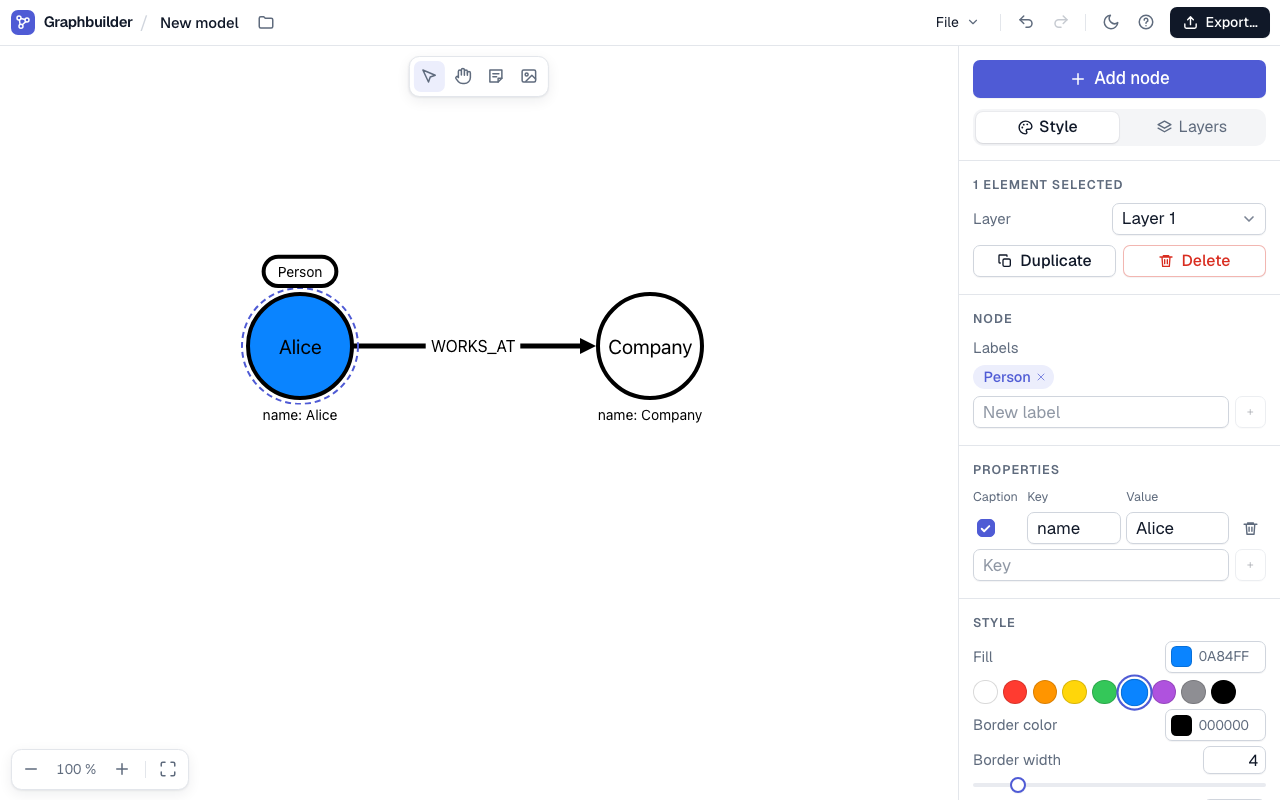
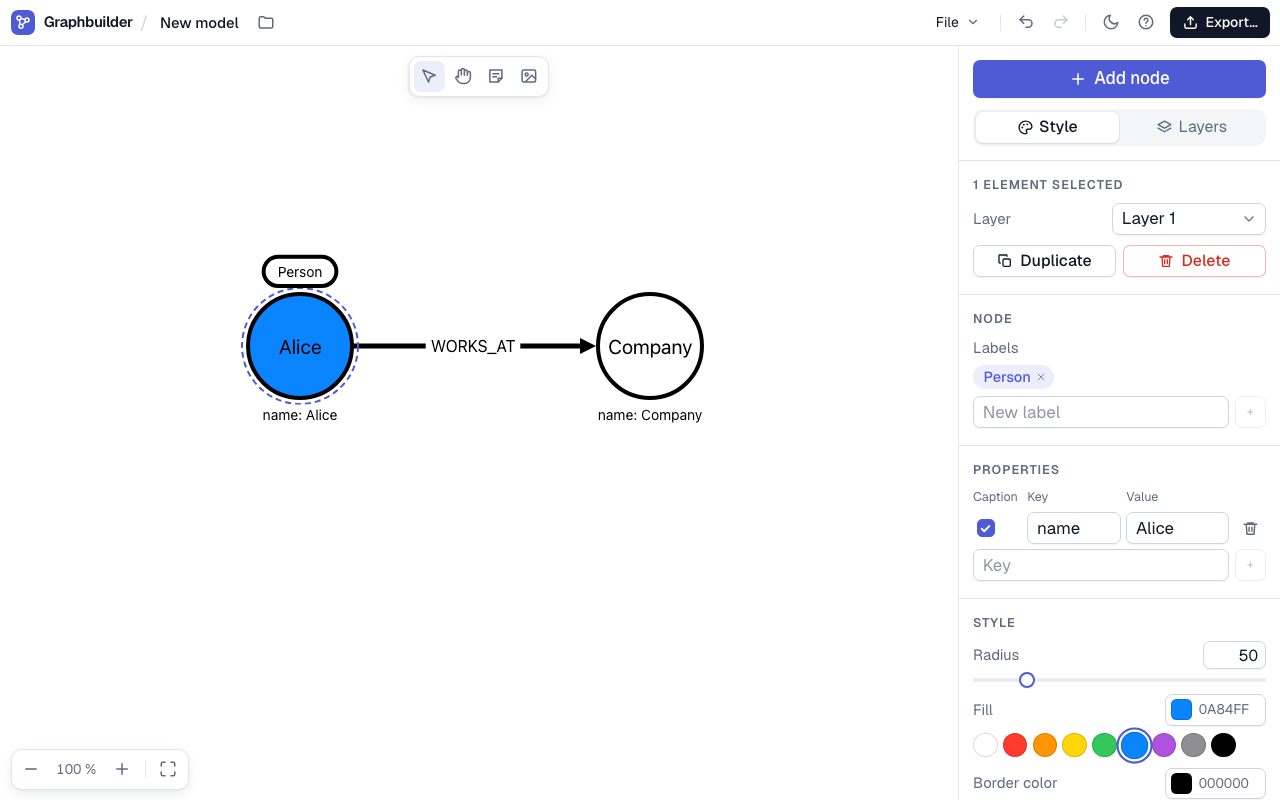
Colour swatches on every colour field, Radius first, and Show all / Hide all for layers

Changed region(s): [[0.75, 0.7812, 1.0, 1.0]]

diff --git a/tests/e2e/inspector.spec.ts b/tests/e2e/inspector.spec.ts
@@ -35,7 +35,7 @@ test.describe("egenskapspanel", () => {
     await expect(page.locator("svg text", { hasText: "ålder: 42" })).toBeVisible();
     await page.getByLabel("Use “name” as caption").check();
 
-    await page.getByTitle("#ff3b30").click();
+    await page.locator("[data-field='Fill']").getByTitle("#ff3b30").click();
     await expect(page.locator("[data-ref^='node:'] circle[fill='#ff3b30']")).toHaveCount(1);
     await page.getByRole("button", { name: "Reset to model style" }).click();
     await expect(page.locator("[data-ref^='node:'] circle[fill='#ffffff']")).toHaveCount(1);
@@ -74,7 +74,7 @@ test.describe("egenskapspanel", () => {
   }) => {
     await freshApp(page);
     await createNode(page, 250, 300, "A");
-    await page.getByTitle("#ff3b30").click();
+    await page.locator("[data-field='Fill']").getByTitle("#ff3b30").click();
     await createNode(page, 600, 300, "B");
     await page.getByRole("tab", { name: "Layers" }).click();
     await page.getByTestId("add-layer").click();
@@ -86,7 +86,7 @@ test.describe("egenskapspanel", () => {
     await page.keyboard.press("Escape");
     await page.getByRole("tab", { name: "Style" }).click();
     await expect(page.getByText("Nothing selected", { exact: true })).toBeVisible();
-    await page.getByTitle("#34c759").click();
+    await page.locator("[data-field='Fill']").getByTitle("#34c759").click();
     // Båda synliga noderna blir gröna, även A som hade en egen röd färg.
     await expect(page.locator("[data-ref^='node:'] > circle[fill='#34c759']")).toHaveCount(2);
     await expect(page.locator("[data-ref^='node:'] > circle[fill='#ff3b30']")).toHaveCount(0);
@@ -245,14 +245,14 @@ test.describe("egenskapspanel", () => {
     const caption = captionText(page, "Mörk");
     await expect(caption).toHaveAttribute("fill", "#000000");
     // Svart fyllning med svart rubrik syns inte: rubriken blir vit.
-    await page.getByTitle("#000000").click();
+    await page.locator("[data-field='Fill']").getByTitle("#000000").click();
     await expect(page.locator("[data-ref^='node:'] > circle[fill='#000000']")).toHaveCount(1);
     await expect(caption).toHaveAttribute("fill", "#ffffff");
     // Tillbaka till vit fyllning: rubriken blir svart igen.
-    await page.getByTitle("#ffffff").click();
+    await page.locator("[data-field='Fill']").getByTitle("#ffffff").click();
     await expect(caption).toHaveAttribute("fill", "#000000");
     // En klar färg går att läsa med svart text och ändrar inte rubriken.
-    await page.getByTitle("#ffd60a").click();
+    await page.locator("[data-field='Fill']").getByTitle("#ffd60a").click();
     await expect(caption).toHaveAttribute("fill", "#000000");
   });
 
@@ -380,5 +380,45 @@ test.describe("egenskapspanel", () => {
     const after = await label.boundingBox();
     if (!before || !after) throw new Error("label saknas");
     expect(before.y - after.y).toBeCloseTo(16, 0);
+  });
+
+  test("alla färgval har färgprickar, och Radius ligger överst", async ({ page }) => {
+    await freshApp(page);
+    await createNode(page, 250, 300, "A");
+    await page.getByPlaceholder("New label").fill("Person");
+    await page.getByPlaceholder("New label").press("Enter");
+    await createNode(page, 600, 300, "B");
+    await dragRelationship(page, { x: 250, y: 300 }, { x: 600, y: 300 }, "REL");
+    await page.keyboard.press("Escape");
+    const panel = page.locator("aside");
+    // Inget markerat: bakgrund, åtta nodfärger och fem relationsfärger – alla med nio prickar.
+    const colorFields = panel.locator("[data-field]:has(input[type='color'])");
+    await expect(colorFields).toHaveCount(14);
+    for (let i = 0; i < 14; i++) {
+      await expect(colorFields.nth(i).locator("button[title^='#']")).toHaveCount(9);
+    }
+    // Radius är första inställningen under Nodes, före Fill.
+    const nodeFields = panel
+      .locator("section", { has: page.getByRole("heading", { name: "Nodes" }) })
+      .locator("[data-field]");
+    await expect(nodeFields.first()).toHaveAttribute("data-field", "Radius");
+    await expect(nodeFields.nth(1)).toHaveAttribute("data-field", "Fill");
+
+    // Prickarna fungerar för varje färg, inte bara fyllningen.
+    await panel.locator("[data-field='Border color']").getByTitle("#ff3b30").click();
+    await expect(page.locator("[data-part='node-circle'][stroke='#ff3b30']")).toHaveCount(2);
+    await panel.locator("[data-field='Label background']").getByTitle("#ffd60a").click();
+    await expect(page.locator("[data-part='label-box'][fill='#ffd60a']")).toHaveCount(1);
+    await panel.locator("[data-field='Line color']").getByTitle("#0a84ff").click();
+    await expect(page.locator("[data-ref^='relationship:'] path[stroke='#0a84ff']")).toHaveCount(1);
+    await panel.locator("[data-field='Background color']").getByTitle("#8e8e93").click();
+    await expect(page.getByTestId("canvas-container")).toHaveCSS(
+      "background-color",
+      "rgb(142, 142, 147)",
+    );
+    // Den valda pricken är markerad.
+    await expect(panel.locator("[data-field='Border color']").getByTitle("#ff3b30")).toHaveClass(
+      /ring-accent/,
+    );
   });
 });

diff --git a/tests/e2e/layers.spec.ts b/tests/e2e/layers.spec.ts
@@ -145,6 +145,48 @@ test.describe("lager", () => {
     await expect(canvas.locator("text").filter({ hasText: "name: A" })).toHaveCount(0);
   });
 
+  test("Hide all och Show all döljer och visar alla lager på en gång", async ({ page }) => {
+    await freshApp(page);
+    await createNode(page, 250, 300, "A");
+    await page.getByRole("tab", { name: "Layers" }).click();
+    await page.getByTestId("add-layer").click();
+    await createNode(page, 600, 300, "B");
+    await page.getByTestId("add-layer").click();
+    const rows = page.getByTestId("layer-row");
+    const showAll = page.getByTestId("show-all-layers");
+    const hideAll = page.getByTestId("hide-all-layers");
+    await expect(rows).toHaveCount(3);
+    // Allt syns redan: Show all har inget att göra.
+    await expect(showAll).toBeDisabled();
+    await expect(hideAll).toBeEnabled();
+
+    await hideAll.click();
+    await expect(captionText(page, "A")).toHaveCount(0);
+    await expect(captionText(page, "B")).toHaveCount(0);
+    await expect(rows.getByRole("button", { name: "Show layer" })).toHaveCount(3);
+    await expect(hideAll).toBeDisabled();
+    // Lagret Properties är ett eget val och påverkas inte.
+    await expect(page.getByRole("button", { name: "Hide properties" })).toBeVisible();
+
+    // Visa ett lager för sig: båda knapparna går att använda.
+    await rows.nth(2).getByTestId("layer-visibility").click();
+    await expect(captionText(page, "A")).toHaveCount(1);
+    await expect(captionText(page, "B")).toHaveCount(0);
+    await expect(showAll).toBeEnabled();
+    await expect(hideAll).toBeEnabled();
+
+    await showAll.click();
+    await expect(captionText(page, "A")).toHaveCount(1);
+    await expect(captionText(page, "B")).toHaveCount(1);
+    await expect(rows.getByRole("button", { name: "Hide layer" })).toHaveCount(3);
+
+    // Hela ändringen är ett enda steg att ångra.
+    await hideAll.click();
+    await page.getByRole("button", { name: "Undo" }).click();
+    await expect(captionText(page, "A")).toHaveCount(1);
+    await expect(captionText(page, "B")).toHaveCount(1);
+  });
+
   test("låst lager kan inte markeras eller flyttas", async ({ page }) => {
     await freshApp(page);
     await createNode(page, 300, 300, "Fast");

diff --git a/src/panels/LayersPanel.tsx b/src/panels/LayersPanel.tsx
@@ -25,6 +25,7 @@ export function LayersPanel() {
   const doc = useDocumentStore((s) => s.doc);
   const addLayer = useDocumentStore((s) => s.addLayer);
   const moveLayer = useDocumentStore((s) => s.moveLayer);
+  const setAllLayersVisible = useDocumentStore((s) => s.setAllLayersVisible);
   const activeLayerId = useUiStore((s) => s.activeLayerId);
   const setActiveLayer = useUiStore((s) => s.setActiveLayer);
   const [dragId, setDragId] = useState<Id | null>(null);
@@ -49,6 +50,26 @@ export function LayersPanel() {
         <Button onClick={onAdd} data-testid="add-layer" className="h-8 px-2.5">
           <IconPlus size={16} />
           {t.layers.add}
+        </Button>
+      </div>
+      <div className="flex gap-1.5 px-4 pb-2">
+        <Button
+          className="h-8 flex-1 px-2.5 font-normal"
+          data-testid="show-all-layers"
+          disabled={doc.layers.every((l) => l.visible)}
+          onClick={() => setAllLayersVisible(true)}
+        >
+          <IconEye size={16} />
+          {t.layers.showAll}
+        </Button>
+        <Button
+          className="h-8 flex-1 px-2.5 font-normal"
+          data-testid="hide-all-layers"
+          disabled={doc.layers.every((l) => !l.visible)}
+          onClick={() => setAllLayersVisible(false)}
+        >
+          <IconEyeOff size={16} />
+          {t.layers.hideAll}
         </Button>
       </div>
       <ul className="flex flex-col gap-1 px-2 pb-2">

diff --git a/src/components/ui.tsx b/src/components/ui.tsx
@@ -8,6 +8,7 @@ import {
   useState,
 } from "react";
 import { t } from "@/i18n";
+import { NODE_PALETTE } from "@/model/defaults";
 import { beginHistoryGroup, endHistoryGroup } from "@/store/documentStore";
 
 const cx = (...parts: (string | false | null | undefined)[]) => parts.filter(Boolean).join(" ");
@@ -161,17 +162,18 @@ export function ColorField({
   label,
   value,
   onChange,
-  swatches,
+  swatches = NODE_PALETTE,
 }: {
   label: string;
   value: string | null;
   onChange: (v: string) => void;
+  /** Färgprickar för snabbval under fältet. Alla färgfält har dem; standard är nodpaletten. */
   swatches?: readonly string[];
 }) {
   const id = useId();
   const hex = toHex(value);
   return (
-    <div className="flex flex-col gap-2">
+    <div className="flex flex-col gap-2 pb-1.5" data-field={label}>
       <div className="flex min-h-9 items-center justify-between gap-3">
         <label htmlFor={id} className="text-[0.88em] text-text-muted">
           {label}
@@ -206,7 +208,7 @@ export function ColorField({
           />
         </span>
       </div>
-      {swatches && (
+      {swatches.length > 0 && (
         <div className="flex flex-wrap gap-1.5">
           {swatches.map((c) => (
             <button

diff --git a/tests/e2e/screenshots.spec.ts b/tests/e2e/screenshots.spec.ts
@@ -29,7 +29,7 @@ test("skärmdump: egenskapspanel och lagerpanel", async ({ page }) => {
   await page.getByPlaceholder("Key").fill("name");
   await page.getByPlaceholder("Key").press("Enter");
   await page.getByLabel("Value").fill("Alice");
-  await page.getByTitle("#0a84ff").click();
+  await page.locator("[data-field='Fill']").getByTitle("#0a84ff").click();
   await page.screenshot({ path: `${SCREENSHOT_DIR}/inspector-node.png`, ...SHOT });
   await page.getByRole("tab", { name: "Layers" }).click();
   await page.getByTestId("add-layer").click();
@@ -66,7 +66,7 @@ test("skärmdump: anteckning och bakgrundsbild i lager", async ({ page }) => {
   await page.getByTestId("inline-editor").fill("Att göra: lägg till adress på Company");
   await page.getByTestId("canvas").click({ position: { x: 800, y: 650 } });
   await page.locator("[data-ref^='note:'] > rect").click();
-  await page.getByTitle("#ff9500").click();
+  await page.locator("[data-field='Color']").getByTitle("#ff9500").click();
   await page.getByRole("tab", { name: "Layers" }).click();
   await page.screenshot({ path: `${SCREENSHOT_DIR}/notes-and-image.png`, ...SHOT });
 });

diff --git a/tests/unit/documentStore.test.ts b/tests/unit/documentStore.test.ts
@@ -390,6 +390,22 @@ describe("element", () => {
     expect(useDocumentStore.temporal.getState().pastStates).toHaveLength(4);
   });
 
+  it("visa och dölj alla lager i ett steg", () => {
+    const l2 = store().addLayer();
+    store().setPropertiesVisible(true);
+    clearHistory();
+    store().setAllLayersVisible(false);
+    expect(store().doc.layers.every((l) => !l.visible)).toBe(true);
+    expect(store().doc.propertiesVisible).toBe(true);
+    expect(useDocumentStore.temporal.getState().pastStates).toHaveLength(1);
+    // Redan dolt: ingenting ändras och inget nytt ångra-steg skapas.
+    store().setAllLayersVisible(false);
+    expect(useDocumentStore.temporal.getState().pastStates).toHaveLength(1);
+    store().setLayerVisible(l2, true);
+    store().setAllLayersVisible(true);
+    expect(store().doc.layers.every((l) => l.visible)).toBe(true);
+  });
+
   it("parallella relationer grupperas", () => {
     const l = firstLayer();
     const a = store().addNode(l, { x: 0, y: 0 });

diff --git a/src/store/documentStore.ts b/src/store/documentStore.ts
@@ -50,6 +50,8 @@ export interface DocumentState {
   addLayer(name?: string, atIndex?: number): Id;
   renameLayer(id: Id, name: string): void;
   setLayerVisible(id: Id, visible: boolean): void;
+  /** Visar eller döljer alla lager på en gång (det fasta lagret "Properties" rörs inte). */
+  setAllLayersVisible(visible: boolean): void;
   setLayerLocked(id: Id, locked: boolean): void;
   /** Visar eller döljer det fasta lagret "Properties" (egenskapsraderna på ritytan). */
   setPropertiesVisible(visible: boolean): void;
@@ -192,6 +194,12 @@ export const useDocumentStore = create<DocumentState>()(
             l.visible = visible;
             touch(s.doc);
           }
+        }),
+      setAllLayersVisible: (visible) =>
+        set((s) => {
+          if (s.doc.layers.every((l) => l.visible === visible)) return;
+          for (const l of s.doc.layers) l.visible = visible;
+          touch(s.doc);
         }),
       setPropertiesVisible: (visible) =>
         set((s) => {

diff --git a/src/panels/inspector/StyleFields.tsx b/src/panels/inspector/StyleFields.tsx
@@ -1,5 +1,4 @@
 import { CheckboxField, ColorField, SliderField } from "@/components/ui";
-import { NODE_PALETTE } from "@/model/defaults";
 import { commonValue, type StyleFieldSpec } from "./common";
 
 /**
@@ -28,7 +27,6 @@ export function StyleFields<K extends string, S extends Record<K, string | numbe
                 key={field.key}
                 label={labels[field.key]}
                 value={typeof common === "string" ? common : null}
-                swatches={field.key === "fill" ? NODE_PALETTE : undefined}
                 onChange={(v) => onChange(field.key, v)}
               />
             );

diff --git a/src/panels/inspector/common.ts b/src/panels/inspector/common.ts
@@ -47,10 +47,10 @@ export const NODE_STYLE_FIELDS: StyleFieldSpec<
   | "propertyBackground"
   | "propertyFontSize"
 >[] = [
+  { key: "radius", type: "number", min: 10, max: 250 },
   { key: "fill", type: "color" },
   { key: "stroke", type: "color" },
   { key: "strokeWidth", type: "number", min: 0, max: 30 },
-  { key: "radius", type: "number", min: 10, max: 250 },
   { key: "captionColor", type: "color" },
   { key: "captionFontSize", type: "number", min: 6, max: 100 },
   { key: "labelColor", type: "color" },

diff --git a/tests/e2e/notes.spec.ts b/tests/e2e/notes.spec.ts
@@ -15,7 +15,7 @@ test.describe("anteckningar", () => {
 
     // Markera och byt färg i panelen
     await page.locator("[data-ref^='note:'] > rect").first().click();
-    await page.getByTitle("#0a84ff").click();
+    await page.locator("[data-field='Color']").getByTitle("#0a84ff").click();
     await expect(page.locator("[data-ref^='note:'] rect[fill='#0a84ff']")).toHaveCount(1);
 
     // Ändra storlek med sydöstra handtaget

diff --git a/src/i18n/en.ts b/src/i18n/en.ts
@@ -150,6 +150,8 @@ export const en = {
     add: "New layer",
     rename: "Rename",
     namePlaceholder: "Layer name",
+    showAll: "Show all",
+    hideAll: "Hide all",
     show: "Show layer",
     hide: "Hide layer",
     lock: "Lock layer",

diff --git a/CLAUDE.md b/CLAUDE.md
@@ -86,6 +86,8 @@ Chromium för Playwright finns i `/opt/pw-browsers`; kör aldrig `playwright ins
   `isRelationshipVisible`, `visibleRelationships`, `isElementLocked` och `elementLayerId` i
   `src/store/selectors.ts`. Den allmänna lagerväljaren i egenskapspanelen gäller bara noder,
   anteckningar och bilder.
+- **Show all / Hide all** överst i lagerpanelen visar eller döljer alla lager i ett steg
+  (`setAllLayersVisible`). Det fasta lagret "Properties" påverkas inte.
 - **Lagret "Properties"** är ett fast lager överst i lagerlistan (`PropertiesRow` i
   `LayersPanel.tsx`), inte ett vanligt lager i `doc.layers`: det kan bara visas/döljas
   (`doc.propertiesVisible`, `setPropertiesVisible`) och styr egenskapsraderna under alla noder och
@@ -97,6 +99,9 @@ Chromium för Playwright finns i `/opt/pw-browsers`; kör aldrig `playwright ins
   dem alla. Dolda element som följde standarden får det gamla värdet som egen stil och ser därför
   likadana ut när de visas igen (`applyToVisible` i `documentStore.ts`). Med markering ändras bara
   de markerade (`setNodeStyle`/`setRelationshipStyle`).
+- **Alla färgval har färgprickar** under fältet, som Fill: `ColorField` visar `NODE_PALETTE` om
+  inget annat anges (anteckningars Color har `NOTE_COLORS`). Radius ligger först bland nodens
+  inställningar (`NODE_STYLE_FIELDS`), före Fill.
 - **Alla tal i sidopanelen ställs in med skjutreglage** (`SliderField`): nodens storlek (10–250),
   kant- och linjebredder, textstorlekar, pilstorlek samt bredd och höjd på anteckningar och bilder
   (20–2000). Bredvid varje reglage finns ett litet fält där samma tal kan skrivas in exakt; det
